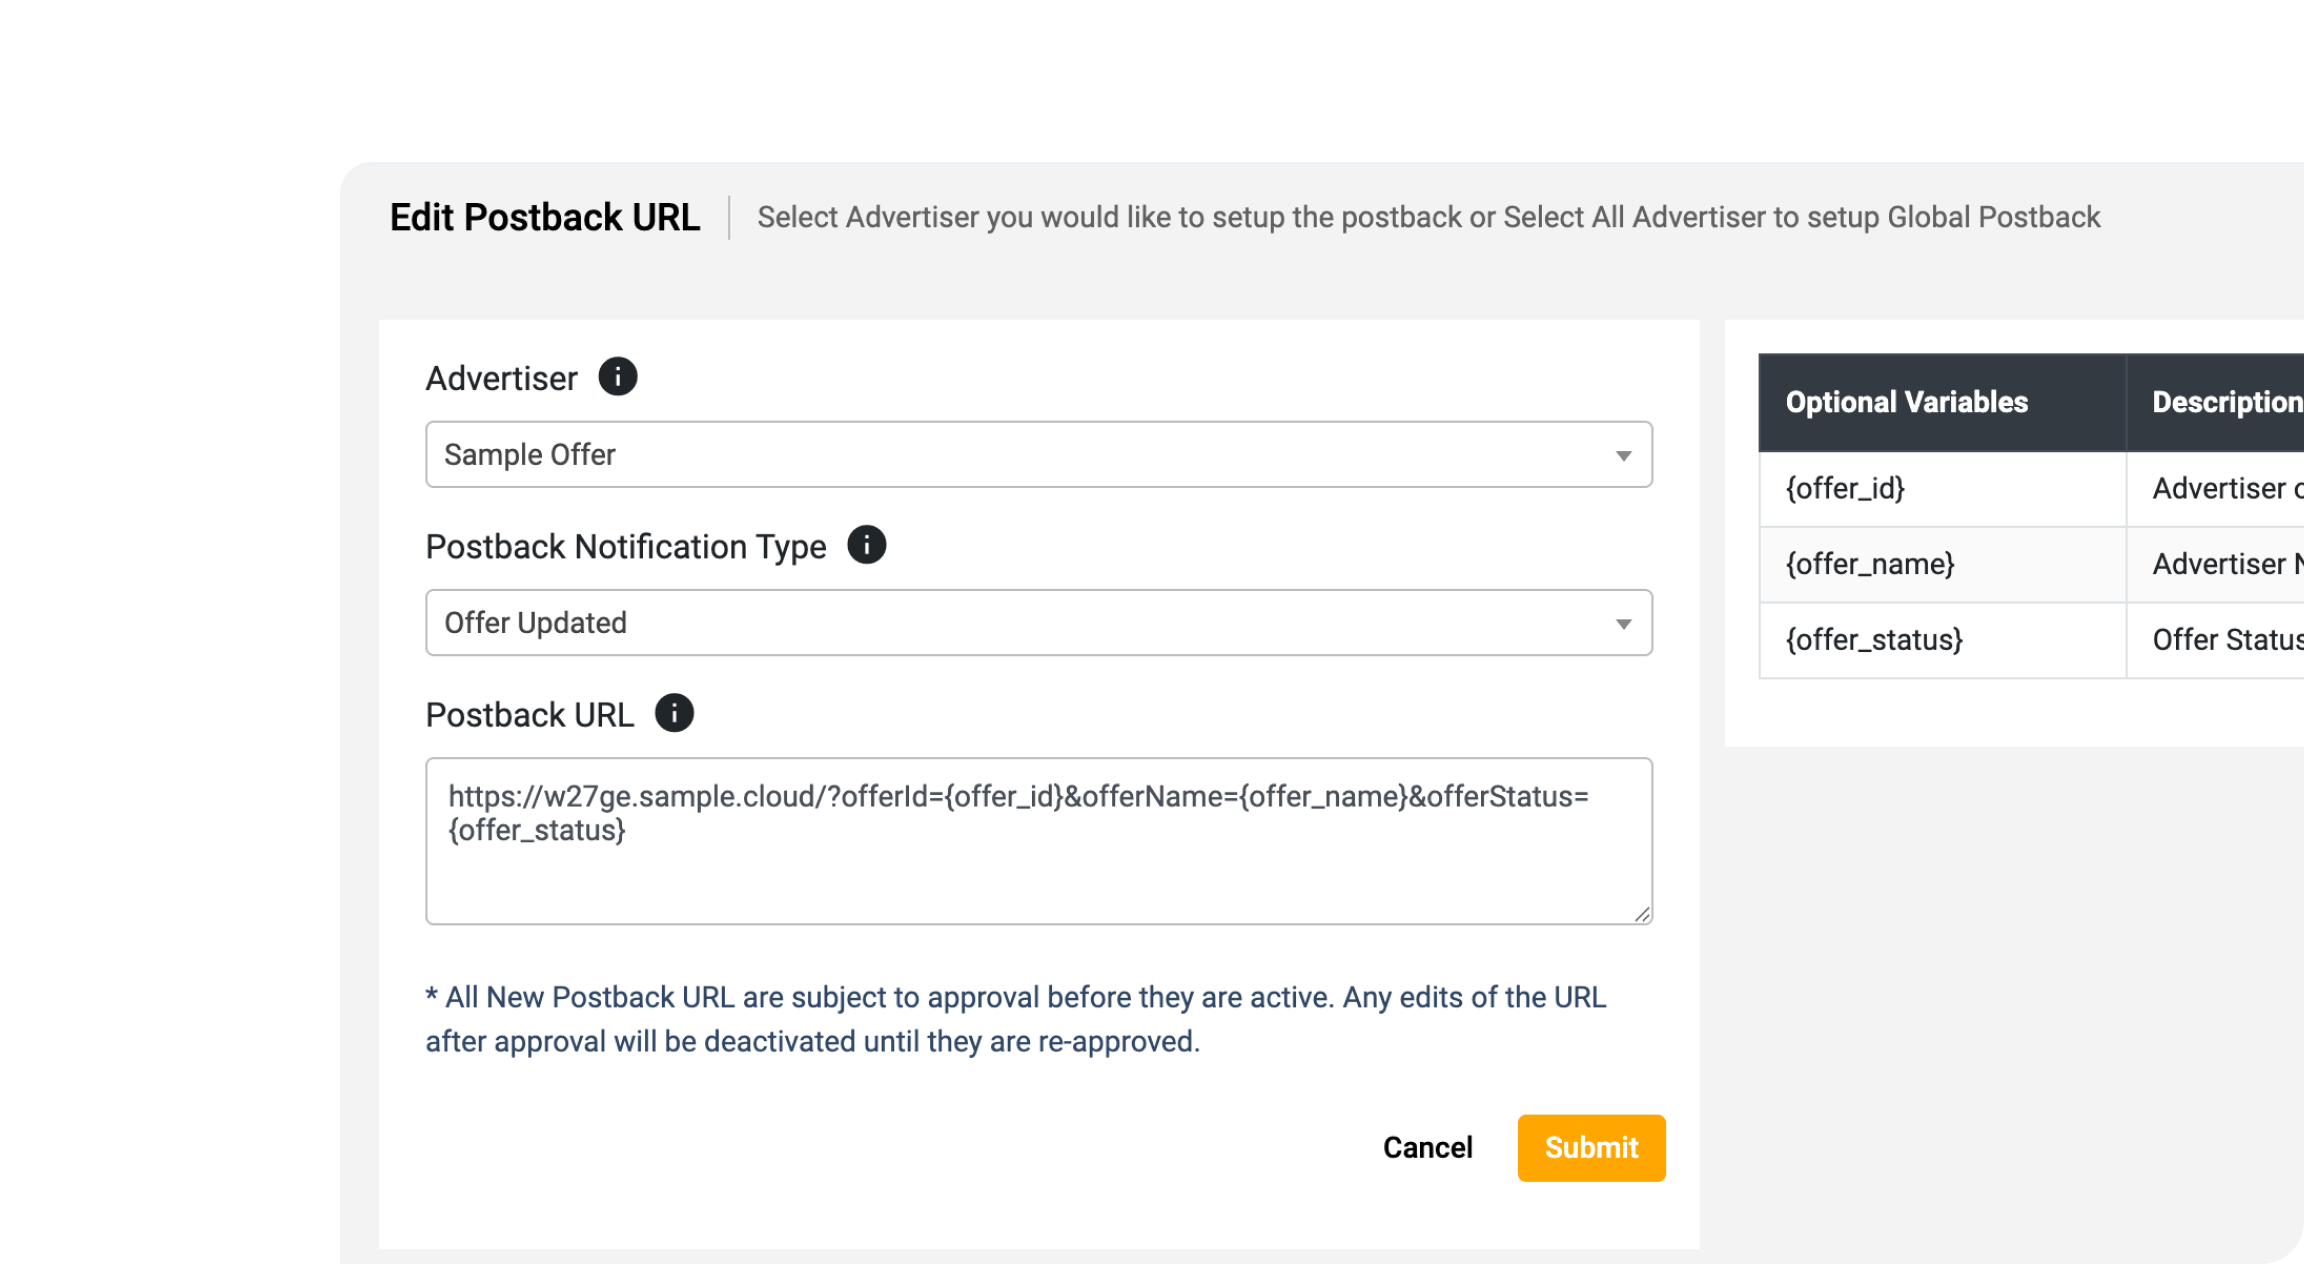
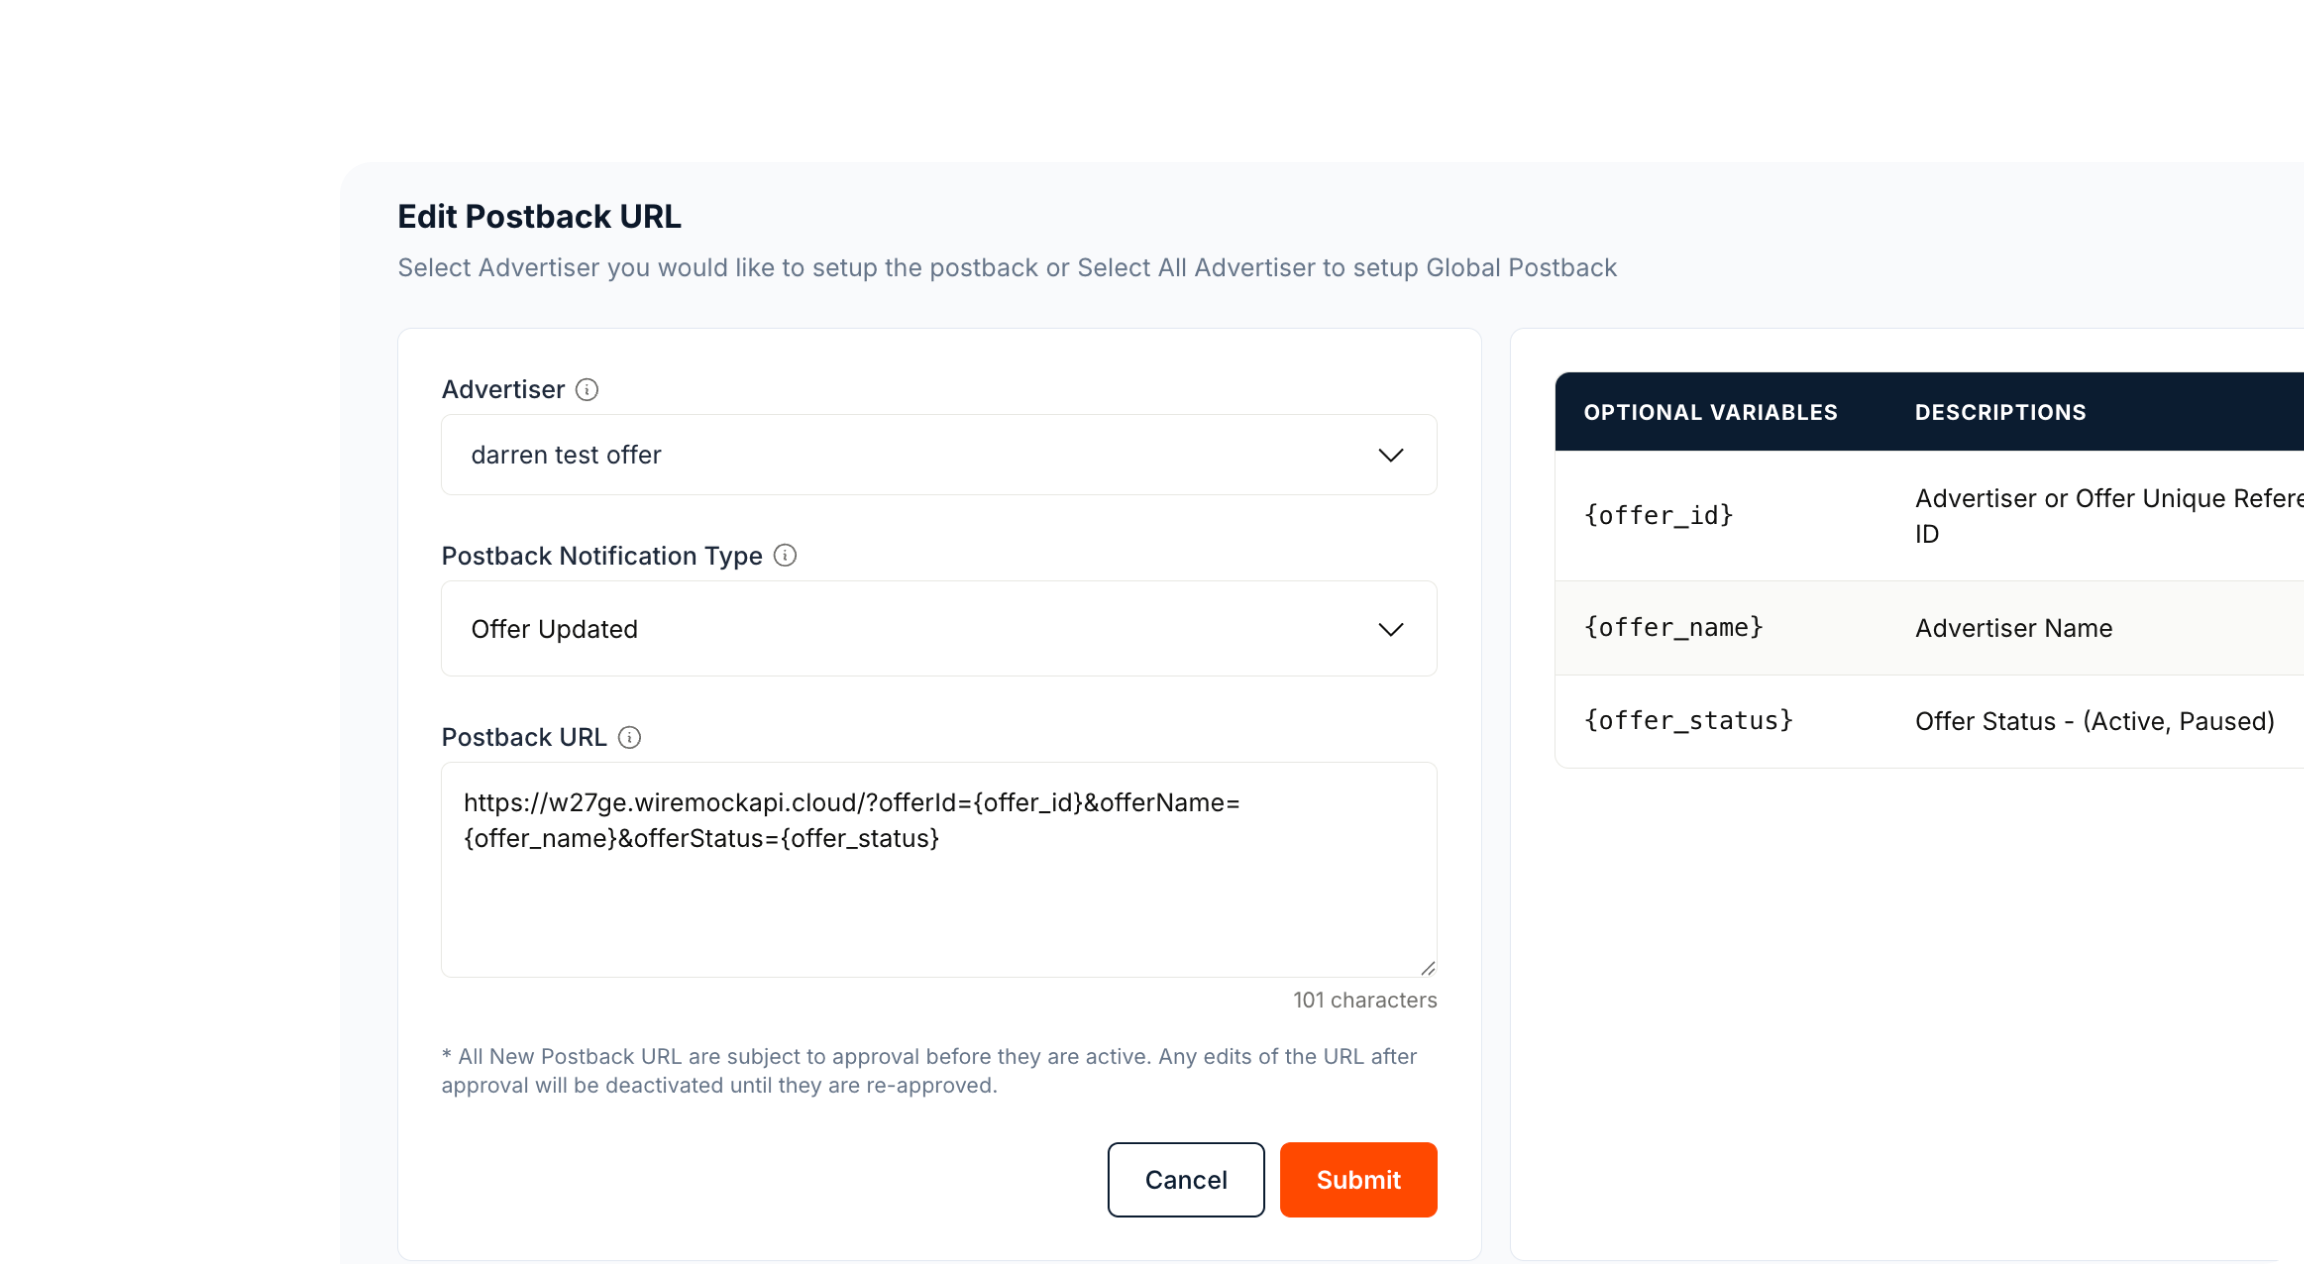
Technology Partners: real hero + tools tab images
- Hero -> tech-partner-hero-img.png
- Tools tab: API -> tech-api-tool-card, Postback -> postback-tool-slide,
  Datafeed Manager -> aff-partner-slide1 (replace visual placeholders)

diff --git a/technology-partners.jsx b/technology-partners.jsx
@@ -41,7 +41,7 @@ function PubHero() {
         <div className="ph-visual" data-reveal data-reveal-delay="1">
           <span className="ph-hexglow" aria-hidden="true" />
           <span className="ph-hexplate" aria-hidden="true" />
-          <div className="ph-photo ph-photo-fill"><img src="media/figma/creator-partner-hero-image.png" alt="A content creator sharing product recommendations with her audience" loading="eager" /></div>
+          <div className="ph-photo ph-photo-fill"><img src="media/figma/tech-partner-hero-img.png" alt="A technology partner integrating Involve offers into their own product" loading="eager" /></div>
           <div className="ph-static-ui">
             <div className="ph-glass ph-g-pay-a"><div className="ph-pay"><span>Commission Earned</span><b>+ $816</b></div></div>
           </div>
@@ -1238,11 +1238,11 @@ function MadeFor() {
 /* ---------- CC §3 — "Built for the way you create." (tab view, reused from the
    publisher overview's platform stepper — pf-* pattern). One tab per tool. ---------- */
 const CREATE_TABS = [
-  { key: 'api', t: 'API', d: 'Authenticate with your key and secret, pull offers and conversions, and generate tracking links programmatically, with no manual dashboard work.',
+  { key: 'api', t: 'API', d: 'Authenticate with your key and secret, pull offers and conversions, and generate tracking links programmatically, with no manual dashboard work.', img: 'tech-api-tool-card.png',
     ic: <svg viewBox="0 0 24 24" fill="none" stroke="currentColor" strokeWidth="1.8" strokeLinecap="round" strokeLinejoin="round"><path d="M8 8l-4 4 4 4" /><path d="M16 8l4 4-4 4" /><path d="M13 6l-2 12" /></svg> },
-  { key: 'postback', t: 'Postback', d: 'Get conversions pushed to your server in real time (server-to-server), so you never have to log in and check reports. You handle the data on your own system.',
+  { key: 'postback', t: 'Postback', d: 'Get conversions pushed to your server in real time (server-to-server), so you never have to log in and check reports. You handle the data on your own system.', img: 'postback-tool-slide.png',
     ic: <svg viewBox="0 0 24 24" fill="none" stroke="currentColor" strokeWidth="1.8" strokeLinecap="round" strokeLinejoin="round"><path d="M4 9h11a4 4 0 0 1 0 8h-2" /><path d="M7 20l-3-3 3-3" /><path d="M20 5v4h-4" /></svg> },
-  { key: 'datafeed', t: 'Datafeed Manager', d: 'Pull live product data like prices, offers, and stock to surface catalogues inside your product.',
+  { key: 'datafeed', t: 'Datafeed Manager', d: 'Pull live product data like prices, offers, and stock to surface catalogues inside your product.', img: 'aff-partner-slide1.png',
     ic: <svg viewBox="0 0 24 24" fill="none" stroke="currentColor" strokeWidth="1.8" strokeLinecap="round" strokeLinejoin="round"><ellipse cx="12" cy="5" rx="8" ry="3" /><path d="M4 5v6c0 1.66 3.58 3 8 3s8-1.34 8-3V5" /><path d="M4 11v6c0 1.66 3.58 3 8 3s8-1.34 8-3v-6" /></svg> },
 ];
 const CREATE_TABS_MS = 5000;
@@ -1268,7 +1268,7 @@ function BuiltCreate() {
                   <span className="pf-step-body">
                     <span className="pf-step-t"><span className="pf-step-ic" aria-hidden="true">{s.ic}</span>{s.t}</span>
                     <span className="pf-step-dw"><span className="pf-step-d">{s.d}</span></span>
-                    <span className="pf-step-fig"><span className="pf-step-fig-in"><span className="cct-ph cct-ph-m"><b>{s.t}</b><i>Visual placeholder</i></span></span></span>
+                    <span className="pf-step-fig"><span className="pf-step-fig-in"><img className="cct-img-m" src={`media/figma/${s.img}`} alt="" loading="lazy" /></span></span>
                   </span>
                 </button>
               );
@@ -1276,7 +1276,7 @@ function BuiltCreate() {
           </div>
           <div className="pf-visual">
             {CREATE_TABS.map((s, i) => (
-              <div key={s.key} className={'pf-img cct-ph' + (i === active ? ' on' : '')} aria-hidden={i !== active}><b>{s.t}</b><i>Visual placeholder</i></div>
+              <img key={s.key} className={'pf-img' + (i === active ? ' on' : '')} src={`media/figma/${s.img}`} alt="" loading="lazy" aria-hidden={i !== active} />
             ))}
           </div>
         </div>
@@ -1309,12 +1309,8 @@ function BuiltCreate() {
           background:linear-gradient(150deg, #fbe9df 0%, #f6f1ec 50%, #fde4d8 100%); }
         .pf-img{ position:absolute; top:clamp(20px,3.2vw,40px); left:clamp(20px,3.2vw,40px);
           width:calc(100% - clamp(20px,3.2vw,40px)); height:calc(100% - clamp(20px,3.2vw,40px));
-          border-radius:16px 0 0 0; opacity:0; transition:opacity .5s ease; }
+          object-fit:cover; object-position:left top; border-radius:16px 0 0 0; opacity:0; transition:opacity .5s ease; }
         .pf-img.on{ opacity:1; }
-        .cct-ph{ display:flex; flex-direction:column; align-items:center; justify-content:center; gap:8px;
-          background:rgba(255,255,255,.55); border:2px dashed var(--warm-300); }
-        .cct-ph b{ font-family:var(--font-display); font-weight:800; font-size:20px; color:var(--warm-800); }
-        .cct-ph i{ font-style:normal; font:500 13px/1 var(--font-body); color:var(--warm-400); }
         .pf-step-fig{ display:none; }
         @media (max-width:900px){
           .pf-grid{ grid-template-columns:1fr; gap:0; }
@@ -1324,8 +1320,7 @@ function BuiltCreate() {
           .pf-step-fig{ display:grid; grid-template-rows:0fr; transition:grid-template-rows .45s ease; }
           .pf-step.on .pf-step-fig{ grid-template-rows:1fr; }
           .pf-step-fig-in{ overflow:hidden; min-height:0; }
-          .cct-ph-m{ min-height:150px; margin:16px 0 4px; border-radius:14px; background:var(--warm-100); }
-          .cct-ph-m b{ font-size:16px; } .cct-ph-m i{ font-size:12px; }
+          .cct-img-m{ display:block; width:100%; height:auto; margin:16px 0 4px; border-radius:14px; box-shadow:0 12px 28px rgba(15,28,46,.12); }
         }
         @media (prefers-reduced-motion: reduce){ .pf-rail-fill{ animation:none; height:100%; } .pf-img{ transition:none; } .pf-step-fig{ transition:none; } }
       `}</style>
